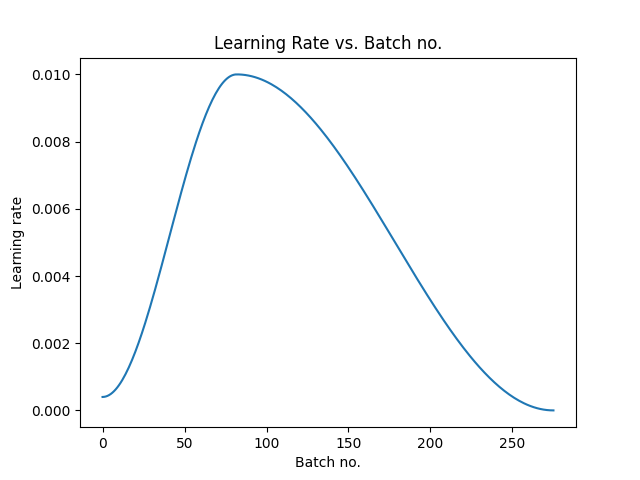
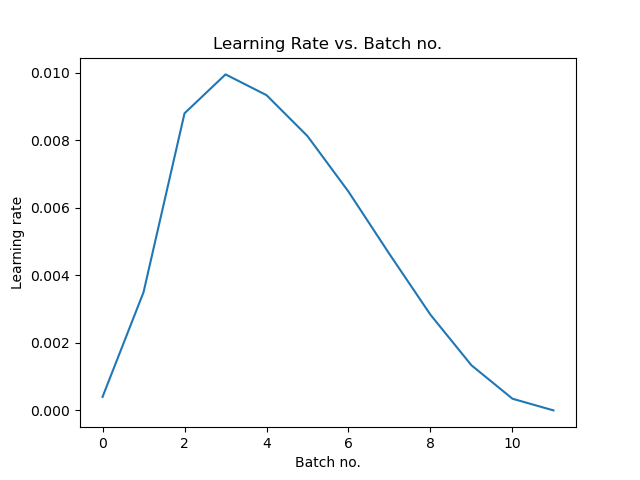
cleaning

diff --git a/main.py b/main.py
@@ -1,19 +1,6 @@
 # source
 # https://www.kaggle.com/code/mihirpaghdal/intel-image-classification-with-pytorch
 
-### Introduction
-# This is image data of Natural Scenes around the world.
-
-# This Data contains around 25k images of size 150x150 distributed under 6 categories.
-# - 'buildings' -> 0,
-# - 'forest' -> 1,
-# - 'glacier' -> 2,
-# - 'mountain' -> 3,
-# - 'sea' -> 4,
-# - 'street' -> 5 
-
-# The Train, Test and Prediction data is separated in each zip files. There are around 14k images in Train, 3k in Test and 7k in Prediction.
-
 ### Importing necessary library
 
 import torch
@@ -46,10 +33,10 @@ def principal():
 
     # ARG Notes:
     #   * prepare_data(32): 
-    train_dl, valid_dl, test_dl, no_of_classes = prepare_data(32)
+    train_dl, valid_dl, test_dl, no_of_classes = prepare_data(64)
 
-    save_path = "results/batch_images.png"
-    show_batch(train_dl, stats, save_path)
+    # save_path = "results/batch_images.png"
+    # show_batch(train_dl, stats, save_path)
     # print("done")
 
     # Moving our data into gpu
@@ -66,7 +53,7 @@ def principal():
     history = [evaluate(model, valid_dl)]
     print(history)
 
-    epochs = 12
+    epochs = 1
     max_lr = 0.01
     grad_clip = 0.1
     weight_decay = 1e-4

diff --git a/data_preprocessing.py b/data_preprocessing.py
@@ -5,6 +5,7 @@ from torchvision.datasets import ImageFolder
 from torch.utils.data.dataloader import DataLoader
 from utils_funcs import get_default_device
 from utils_classes import DeviceDataLoader
+import os
 
 def prepare_data(batch_size):
     """
@@ -29,8 +30,8 @@ def prepare_data(batch_size):
         tt.Normalize(*stats, inplace=True)
     ])
 
-    train = ImageFolder(Path("dataset") / "train", transform=train_transform)
-    test = ImageFolder(Path("dataset") / "test", transform=test_transform)
+    train = ImageFolder(os.path.join("images", "train"), transform=train_transform)
+    test = ImageFolder(os.path.join("images", "test"), transform=test_transform)
 
     val_size = int(len(train) * 0.2)
     train_size = len(train) - val_size
